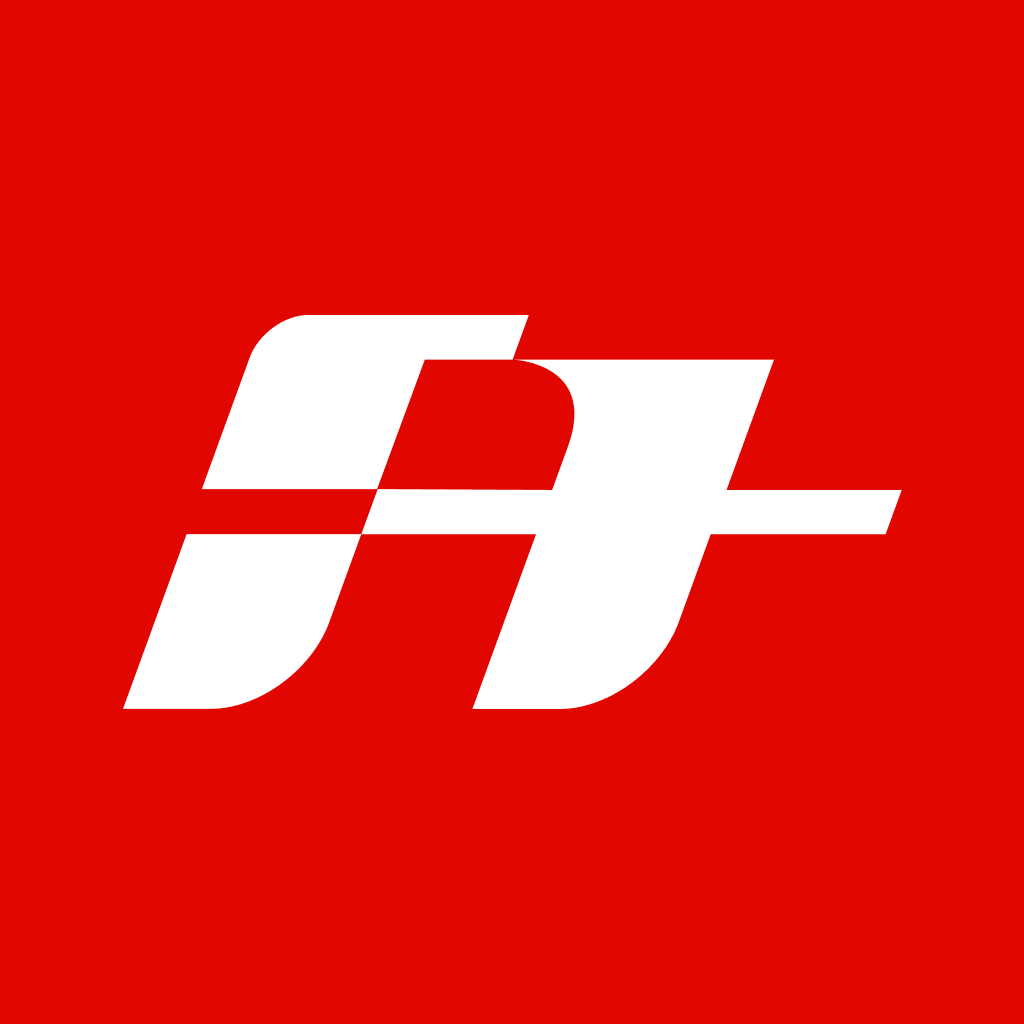
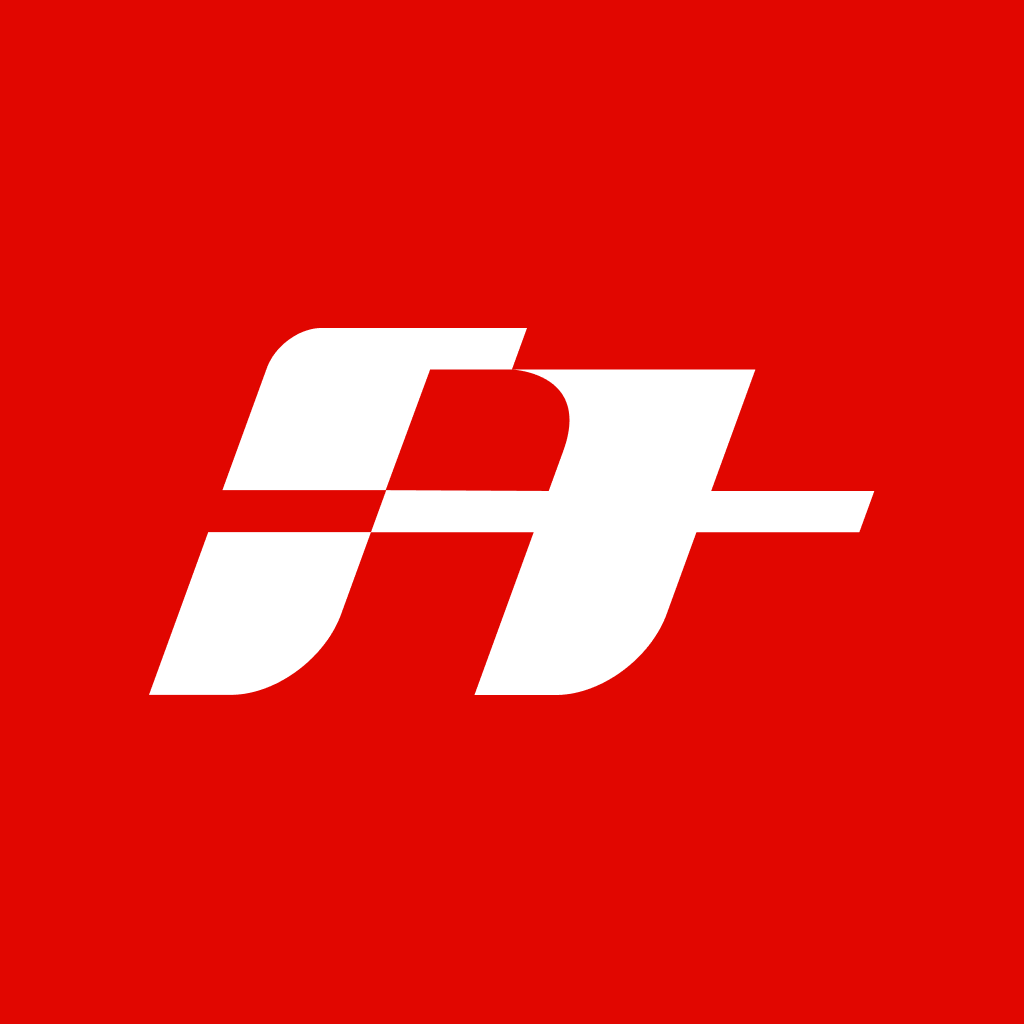
chore: update app.config.js assets

diff --git a/app.config.js b/app.config.js
@@ -1,4 +1,4 @@
-const APP_VARIANT = process.env.APP_VARIANT
+const APP_VARIANT = process.env.APP_VARIANT || 'development'
 
 function getEnvironment() {
   return {
@@ -16,22 +16,22 @@ export default {
   plugins: ['expo-camera'],
   scheme: 'aceleramais',
   version: '1.0.0',
-  sdkVersion: '44.0.0',
   icon: './assets/icon.png',
-  userInterfaceStyle: 'automatic',
+  sdkVersion: '44.0.0',
   splash: {
     image: './assets/splash.png',
-    resizeMode: 'contain',
-    backgroundColor: '#ffffff'
+    resizeMode: 'cover',
+    backgroundColor: '#1C1C1C'
   },
   ios: {
+    icon: './assets/icon.png',
     bundleIdentifier: environment.package
   },
   android: {
     package: environment.package,
     adaptiveIcon: {
       foregroundImage: './assets/adaptive-icon.png',
-      backgroundColor: '#FFFFFF'
+      backgroundColor: '#E10600'
     }
   }
 }
